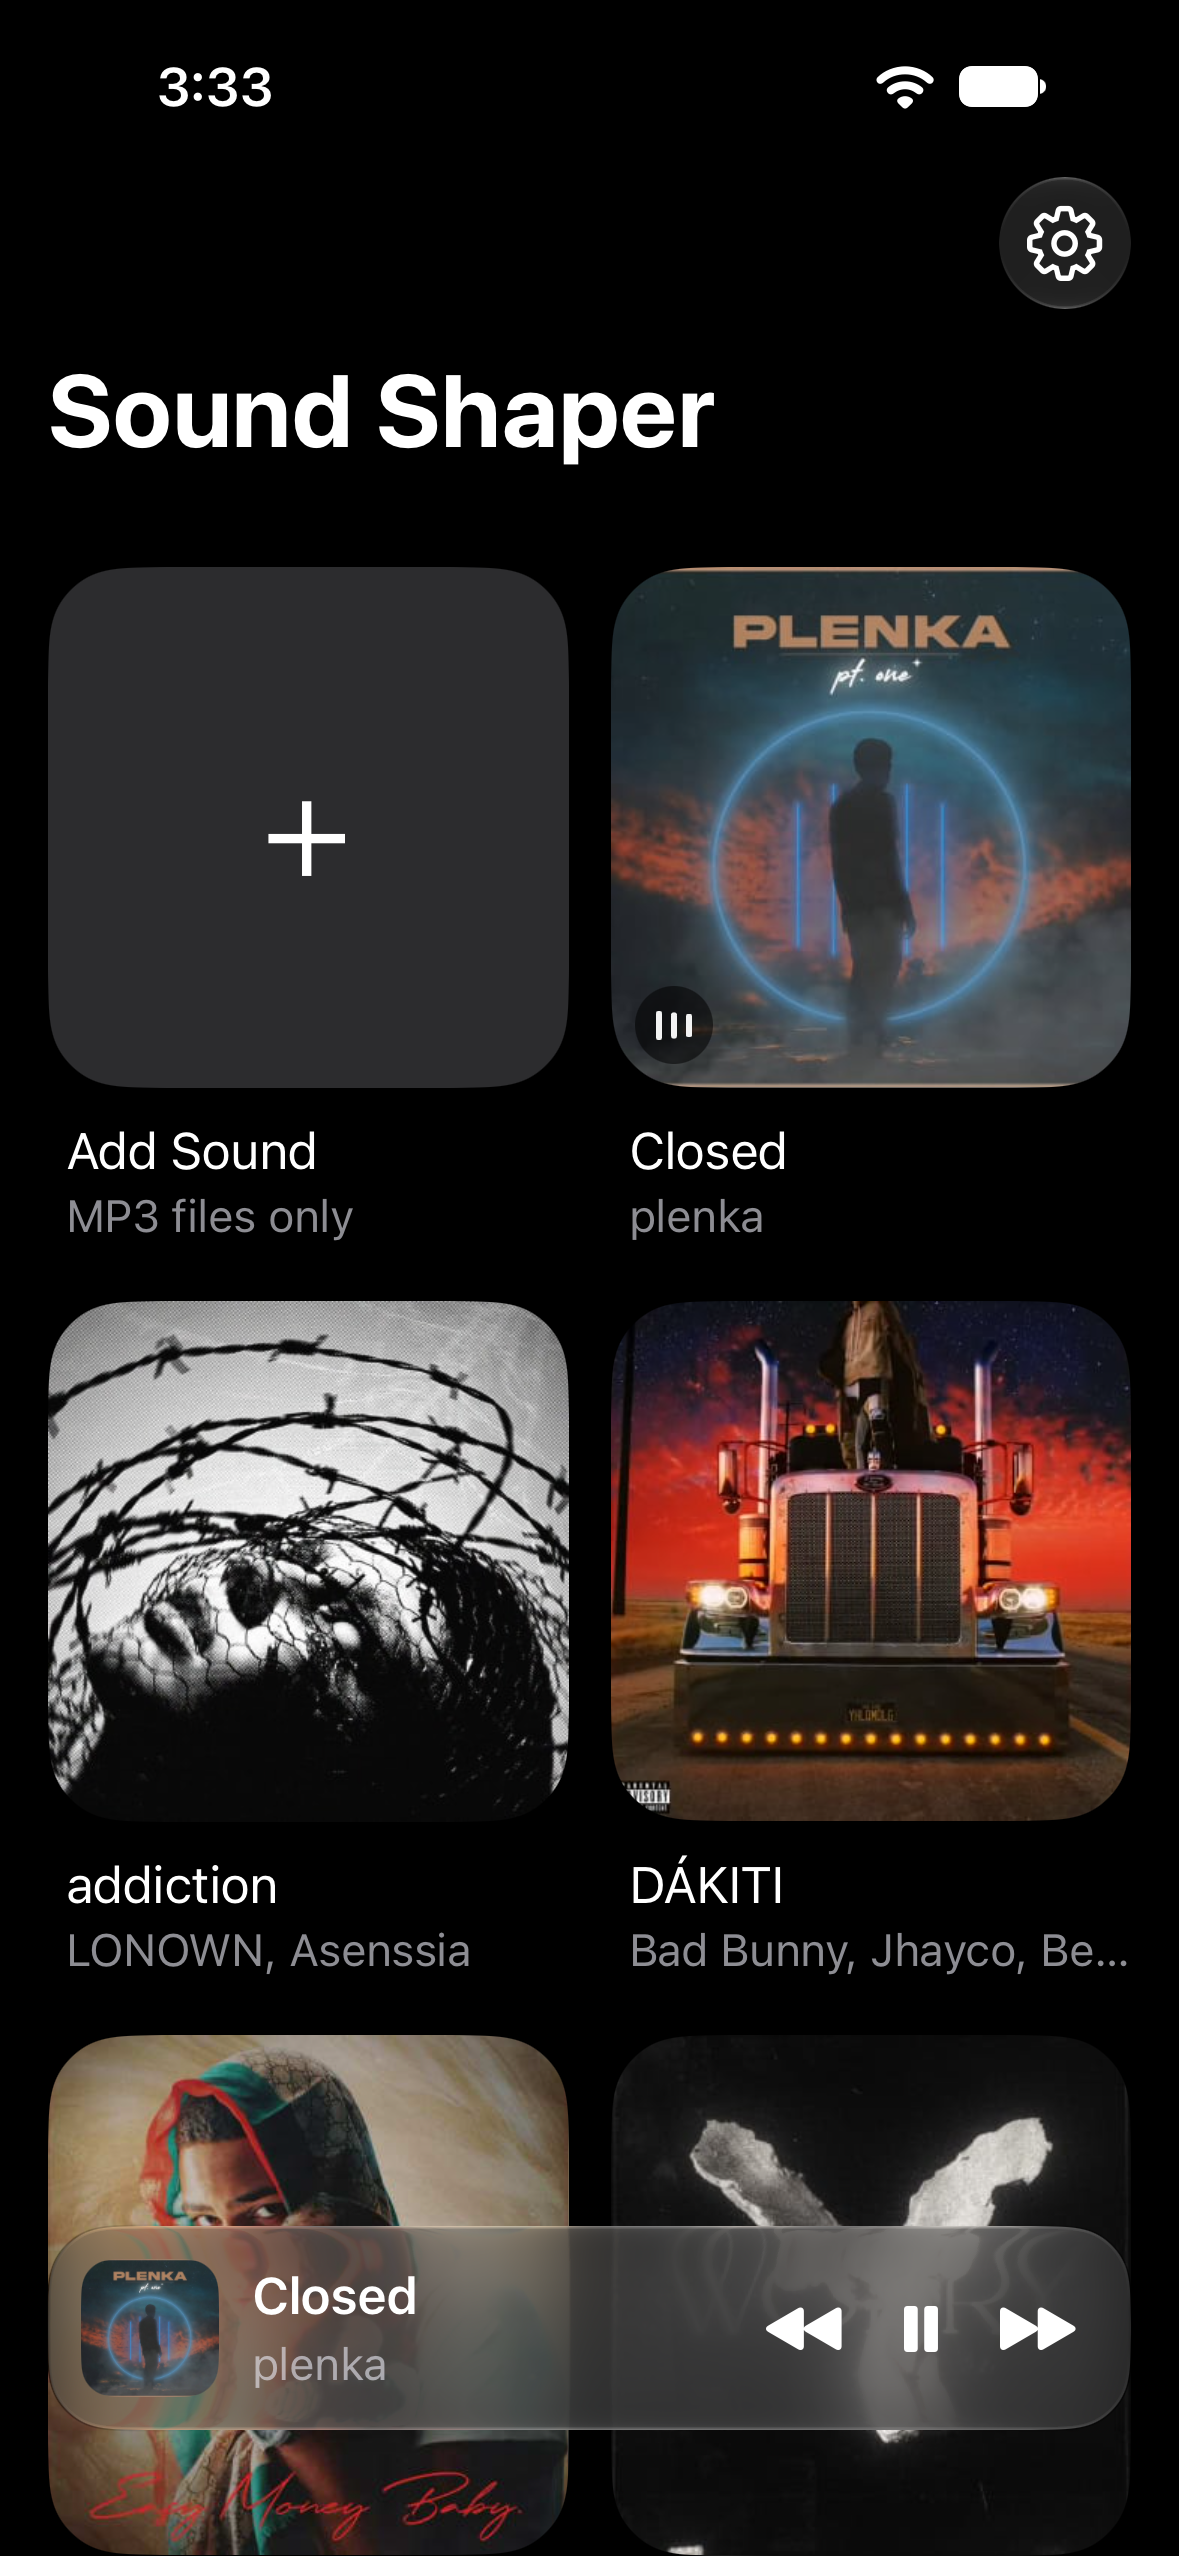
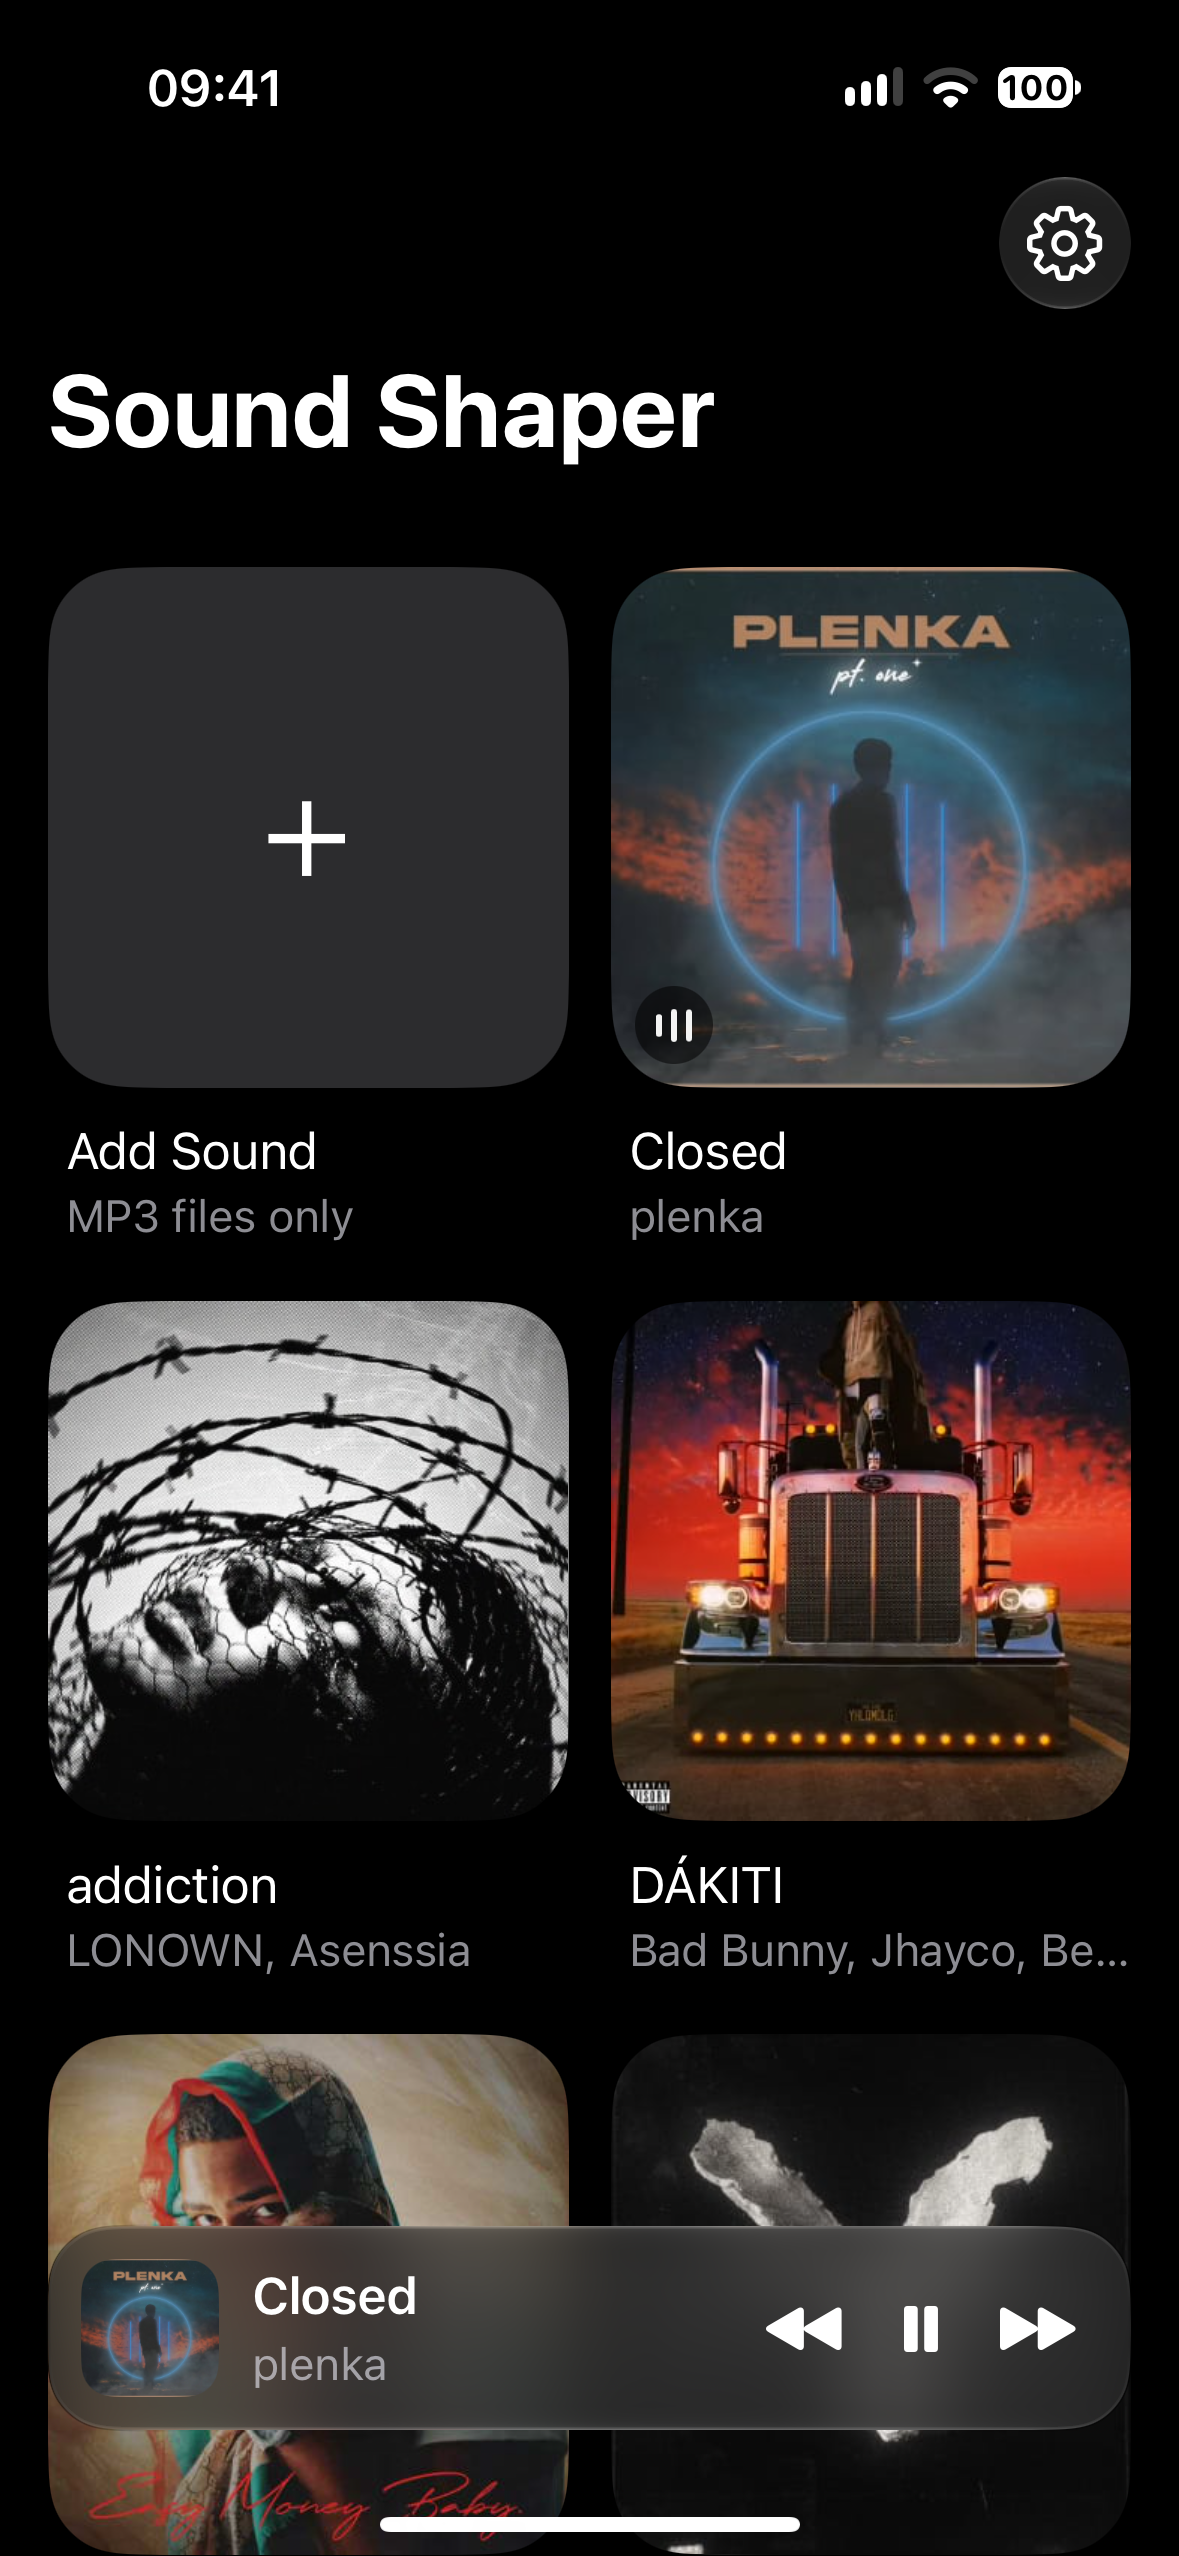
feat(web): bring Topper back as its own story, with fresh screenshots of both apps
Topper returns with four slides (Home, Explore, a top, Profile) and its
pitch in en/es/zh; Sound Shaper's four shots are retaken on the current
build. Only the last story loops now: a looping story rewinds the scroll
to its own opener, so Sound Shaper looping made Topper unreachable.

diff --git a/src/i18n/ui.ts b/src/i18n/ui.ts
@@ -56,6 +56,26 @@ const en = {
     'Pick the exact seconds you love — the whole track below, the zoom above.',
   'shaper.s4.p2':
     'Save them as clips: your favorite parts, documented and ready to loop whenever you want. Every clip stays with its song: edit it, delete it or play it again whenever you want.',
+  'topper.problem':
+    'My favorite games, movies and anime lived in my head as rankings I changed every week, and the only place to share them was a group chat, where they scrolled away within the hour.',
+  'topper.solution':
+    'An app for tops of anything: rank what you love, follow people whose taste you trust, and settle the order in the comments. Like Letterboxd, but for every list you would make.',
+  'topper.s1.p1':
+    'Your tops open the app, each with its number one as the cover.',
+  'topper.s1.p2':
+    'Below, the tops of the people you follow — their whole order, not just a like, so you see exactly where their taste and yours part ways.',
+  'topper.s2.p1':
+    'Explore is where you find people worth following, and the tops of everyone else.',
+  'topper.s2.p2':
+    'Search looks inside every item too, so typing a game finds every top that ranks it.',
+  'topper.s3.p1':
+    'A top is a list you reorder with a drag; the podium moves with you.',
+  'topper.s3.p2':
+    'Others tap Agree or Could Be Better, and the comments take care of the rest.',
+  'topper.s4.p1':
+    'Your profile is every top you have made, with its top three in view.',
+  'topper.s4.p2':
+    'And trophies, PlayStation-style, that unlock as you use the app, all the way to the platinum.',
 };
 
 export type UIKey = keyof typeof en;
@@ -95,6 +115,26 @@ export const ui: Record<Locale, Record<UIKey, string>> = {
       'Elige los segundos exactos que te encantan — la canción entera abajo, el zoom arriba.',
     'shaper.s4.p2':
       'Guárdalos como clips: tus partes favoritas, documentadas y listas para repetir en loop cuando quieras. Cada clip se queda con su canción: lo editas, lo eliminas o lo vuelves a escuchar cuando quieras.',
+    'topper.problem':
+      'Mis juegos, películas y anime favoritos vivían en mi cabeza como rankings que cambiaba cada semana, y el único lugar para compartirlos era un chat de grupo, donde se perdían en una hora.',
+    'topper.solution':
+      'Una app de tops de lo que sea: ordenas lo que te encanta, sigues a gente con buen gusto y el orden se discute en los comentarios. Como Letterboxd, pero para cualquier lista que harías.',
+    'topper.s1.p1':
+      'Tus tops abren la app, cada uno con su número uno de portada.',
+    'topper.s1.p2':
+      'Debajo, los tops de las personas que sigues — su orden completo, no solo un like, así ves exactamente dónde su gusto y el tuyo se separan.',
+    'topper.s2.p1':
+      'Explorar es donde encuentras gente que vale la pena seguir, y los tops de todos los demás.',
+    'topper.s2.p2':
+      'La búsqueda también mira dentro de cada elemento: escribes un juego y aparecen todos los tops que lo tienen.',
+    'topper.s3.p1':
+      'Un top es una lista que reordenas arrastrando; el podio se mueve contigo.',
+    'topper.s3.p2':
+      'Los demás tocan De acuerdo o Podría mejorar, y los comentarios hacen el resto.',
+    'topper.s4.p1':
+      'Tu perfil son todos los tops que has hecho, con sus tres primeros a la vista.',
+    'topper.s4.p2':
+      'Y trofeos, al estilo PlayStation, que se desbloquean mientras usas la app, hasta llegar al platino.',
   },
   zh: {
     'meta.title': 'juanevillam',
@@ -128,5 +168,20 @@ export const ui: Record<Locale, Record<UIKey, string>> = {
     'shaper.s4.p1': '选出你最爱的那几秒——整首歌在下面，放大在上面。',
     'shaper.s4.p2':
       '存成片段：你最喜欢的部分，被记录下来，想循环就循环。每个片段都跟着它的歌曲：随时编辑、删除，或者再听一遍。',
+    'topper.problem':
+      '我最爱的游戏、电影和动漫，一直以排名的形式留在脑子里，每周都在变；唯一能分享的地方是群聊，不到一小时就被刷走了。',
+    'topper.solution':
+      '一个什么都能排的榜单应用：给你喜欢的东西排序，关注品味值得信赖的人，在评论里争论谁该排第一。就像 Letterboxd，但适用于你会列的每一份清单。',
+    'topper.s1.p1': '打开应用先看到你的榜单，每个都以第一名作为封面。',
+    'topper.s1.p2':
+      '下面是你关注的人的榜单——完整的排序，而不只是一个赞，让你清楚看到他们的品味和你在哪里分道扬镳。',
+    'topper.s2.p1': '“探索”里能找到值得关注的人，以及其他所有人的榜单。',
+    'topper.s2.p2':
+      '搜索也会查看每个条目：输入一款游戏，就能找到所有收录它的榜单。',
+    'topper.s3.p1': '榜单就是一份拖动即可重新排序的清单；领奖台随你而动。',
+    'topper.s3.p2': '其他人可以轻点“赞同”或“可以更好”，剩下的交给评论。',
+    'topper.s4.p1': '你的个人资料就是你做过的所有榜单，前三名一目了然。',
+    'topper.s4.p2':
+      '还有 PlayStation 风格的奖杯，随着你使用应用逐一解锁，直到白金。',
   },
 };
